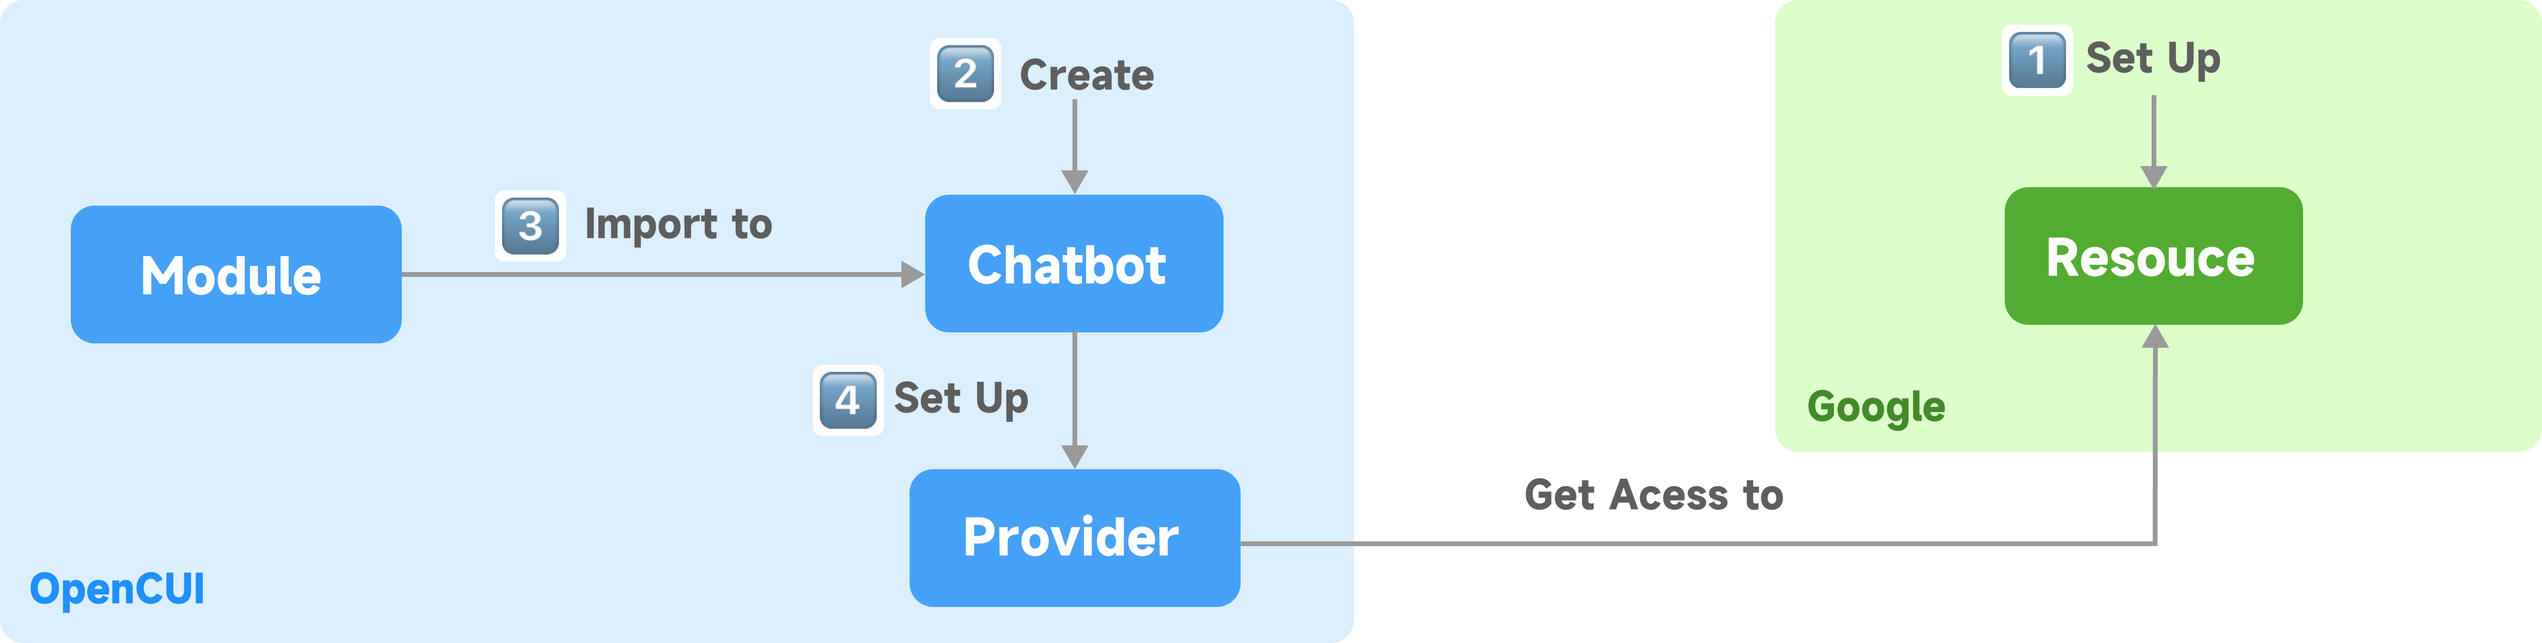
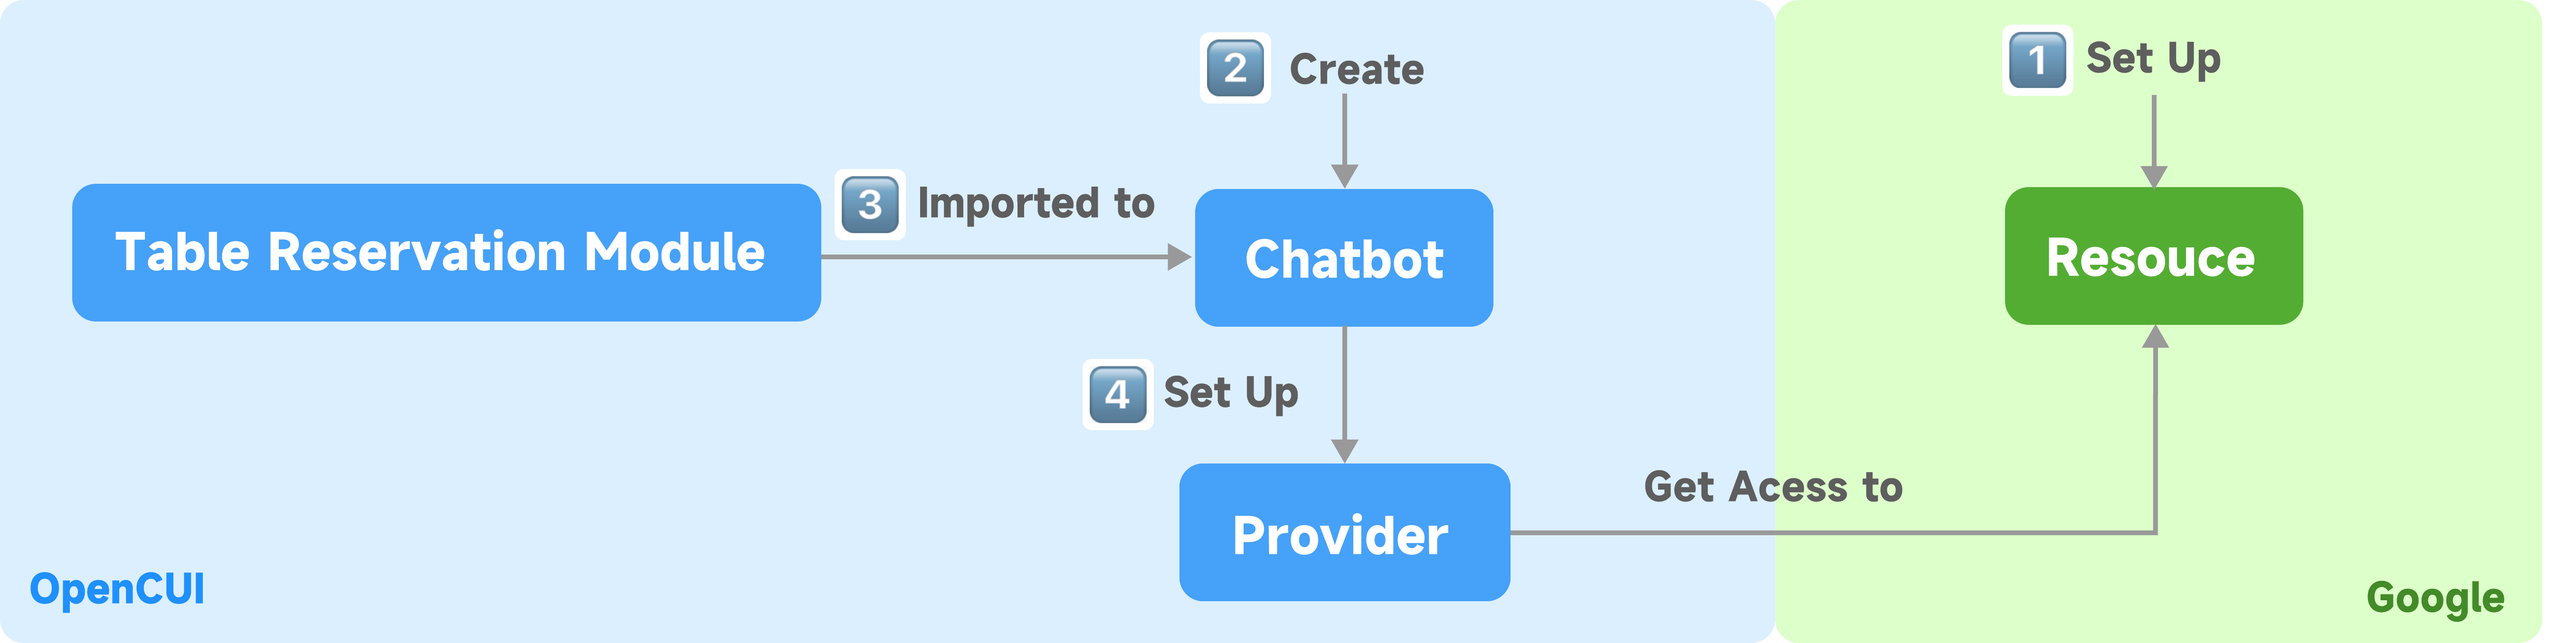
update quickstart with reservation

diff --git a/docs/articles/quick-start-with-reservation.md b/docs/articles/quick-start-with-reservation.md
@@ -16,9 +16,23 @@ author: Sunny May
 
 This guide shows you how to build a table reservation chabot quickly by using a module, and the great news is that you don't need to design any CUI or develop the backend. 
 
-A Module is a reusable unit for getting user preferences via conversations. The module used here is [table reservation module](https://build.opencui.io/org/me.restaurant/agent/tableReservation/struct/intent) that handles CUI design for you. Besides, backend development is done in the [Google Calendar reservation provider](../plugins/services/reservation/google-calendar-reservation.md). 
+A Module is a reusable unit for getting user preferences via conversations. The module used here is [table reservation module](https://build.opencui.io/org/me.restaurant/agent/tableReservation/struct/intent) that handles CUI design for you. Inside the table reservation module, there are [reservation API](../plugins/services/reservation/reservation-api.md) that provide access to your backend. Meanwhile, backend development is done by [Google Calendar reservation provider](../plugins/services/reservation/google-calendar-reservation.md). 
 
-The table reservation chabot is used to help users to make/view/cancel reservations. The following conversation shows how this chatbot helps the user make a reservation:
+::: thumbnail
+![table reservation module.png](/images/blog/quickstarts-with-reservation/table-reservation-module.png)
+:::
+
+It only takes four steps to build a table reservation chatbot:
+1. Set up resources in Google platform.
+2. Create a chatbot.
+3. Import a table reservation module to your chatbot.
+4. Set up the provider in your chatbot so your the provider can get aceess to your resources.
+
+::: thumbnail
+![workflow](/images/blog/quickstarts-with-reservation/workflow.png)
+:::
+
+The table reservation chabot is used to helptest users to make/view/cancel reservations. The following conversation shows how this chatbot helps the user make a reservation:
 
 :::: conversation
 
@@ -65,16 +79,6 @@ Your reservation has been made. We'll see you at 3:00 PM on Sunday, December 25,
 ::::
 
 You can find all the services the table reservation module provides in [reservation CUI design](./build-reservation-module.md#cui-design).
-
-In general, the table reservation chatbot can be built in four steps: 
-1. Set up resources in Google platform.
-2. Create a chatbot.
-3. Import a table reservation module to your chatbot.
-4. Set up the provider in your chatbot so your the provider can get aceess to your resources.
-
-::: thumbnail
-![workflow](/images/blog/quickstarts-with-reservation/workflow.png)
-:::
 
 ## Before You Start
 
@@ -228,7 +232,9 @@ Now it's time to create a table reservation chatbot and reuse the table reservat
 
 ## Set Up Reservation Provider
 
-To use the functionality provided by the reservation API, follow these steps to set up the reservation provider:
+Before you can use the functionality provided by the reservation API, you should declare a reservation service first, then set up the reservation provider for that service.
+
+To set up the reservation provider:
 
 1. Enter the chatbot you just created.
 2. Heading to **Settings** page, in **Integrations** tab
